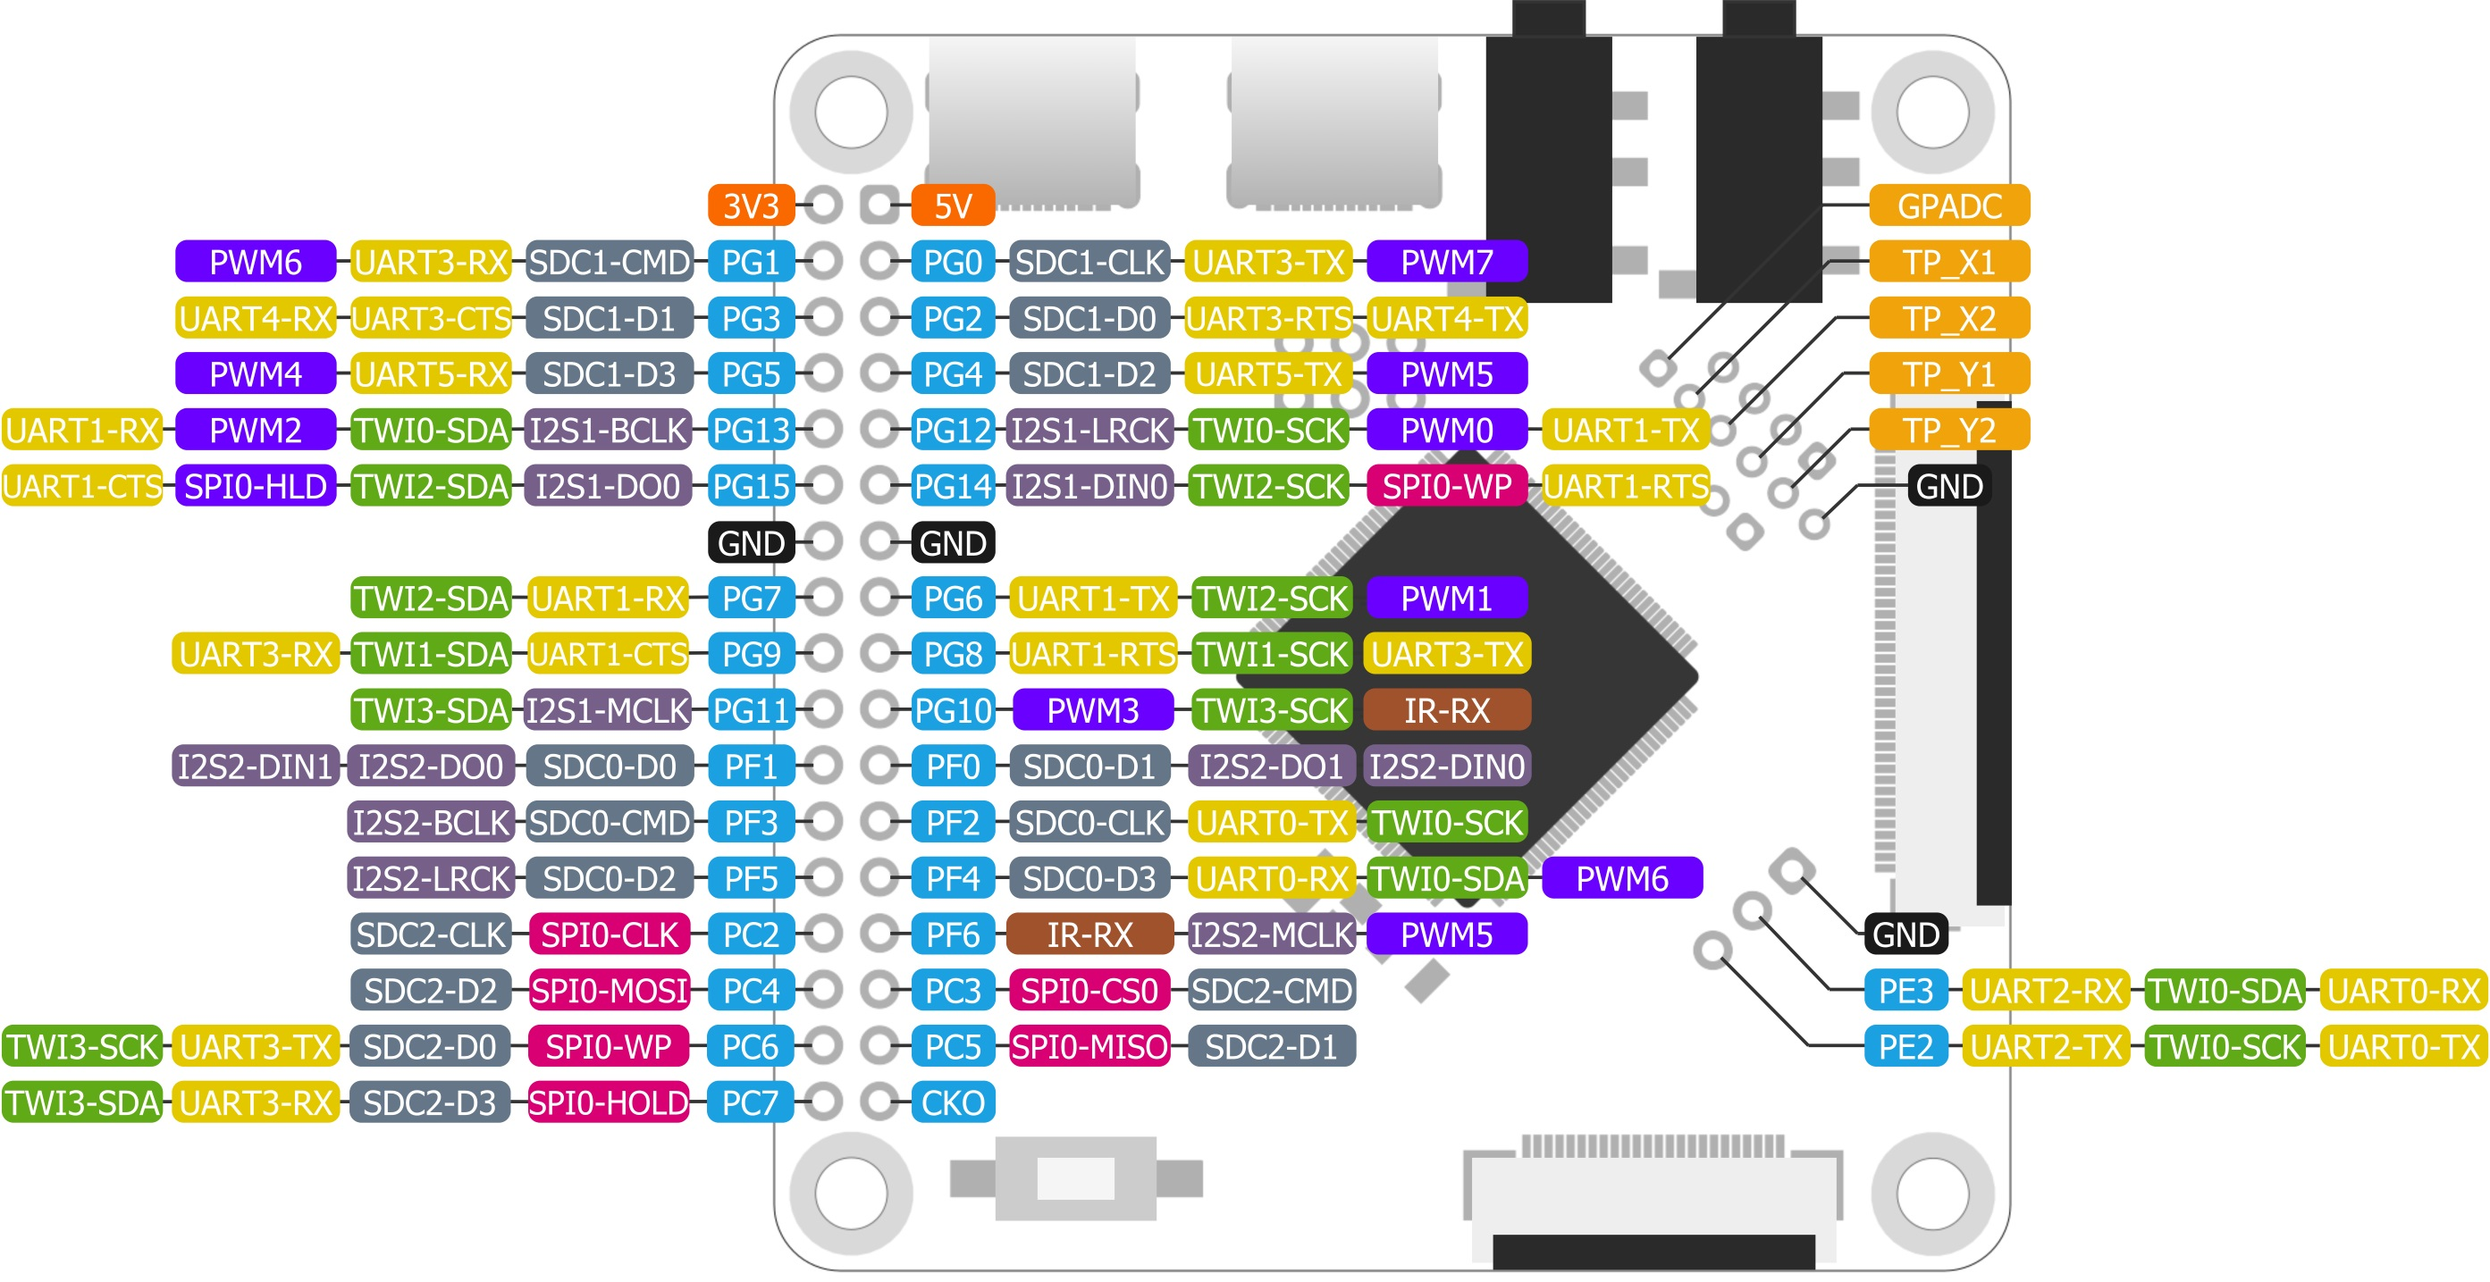
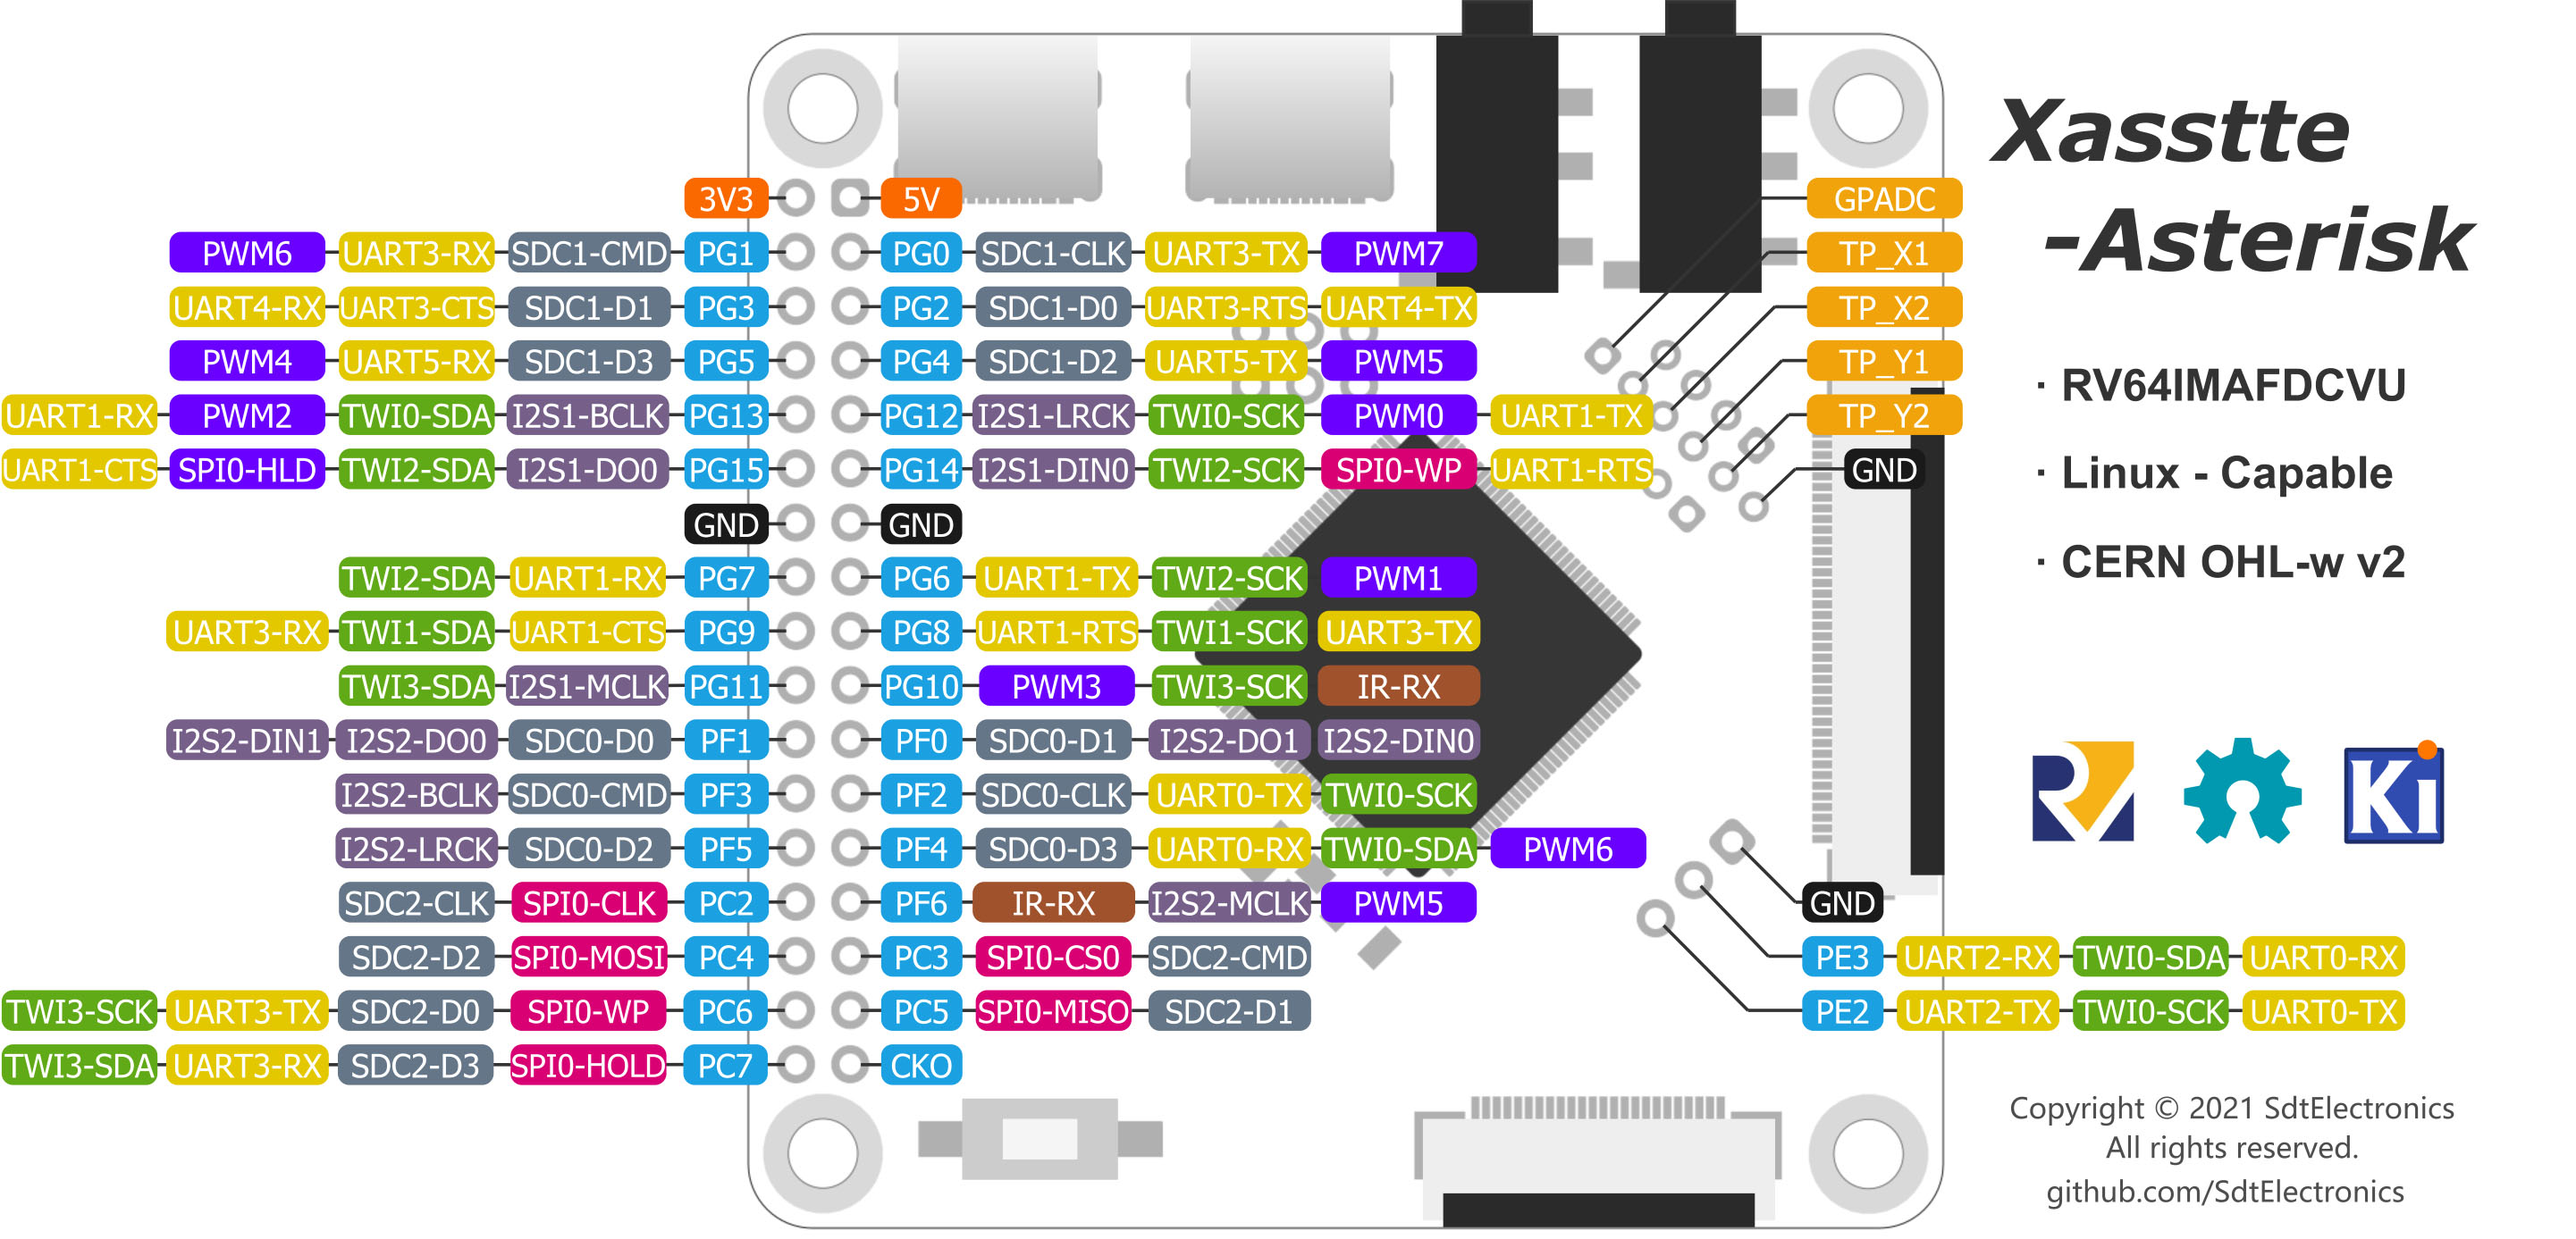
add guides

diff --git a/docs/troubleshooting.md b/docs/troubleshooting.md
@@ -1,0 +1,24 @@
+# Troubleshooting
+
+## General
+Check voltages of each group of power. The typical voltages for power nets are:
+- `3V3`: 3.3V
+- `1V8`: 1.8V
+- `VDD-CORE`: 0.9V
+- `LDOB-OUT`: 1.2-1.3V in FEL mode, 1.8V in normal operation
+
+Check whether there are bad electrical connections.
+
+Check whether separate nets are accidently connected.
+
+## Nothing Is Printed to Serial
+Check whether TX and RX signals are matched. Try interchanging them. Remove the boot media and connect the board to a computer via the otg port. If a new device is detected by the computer, it means the chip worked properly and you should check the boot media. Otherwise use an oscilloscope to check whether the crystal is oscillating. If not, check the power, and in worst cases the chip is probably dead.
+
+## System Frequently Hangs or Reboot
+Use a better power supply. Remove the load capacitors of 24M crystal (`C13`, `C14`). If the problem is eliminated it indicates the value of load capacitors was too large.
+
+## MMC Errors or Reboot after Mounting New Partion
+Check the soldering of the card slot. Use a better card as bad blocks can cause failure.
+
+## LCD Is Not Working
+If the backlight is not up, check the boost circuit. Otherwise check the level of `DISP` signal. It should be pulled high for most panels i.e. `R32` should be soldered.

diff --git a/docs/quickStart.md b/docs/quickStart.md
@@ -1,0 +1,16 @@
+# Quick Start
+## Burn Tina Firmware
+Get the firmware in [releases](https://github.com/SdtElectronics/Xassette-Asterisk/releases/tag/fw-v0.1-beta). Extract the tarball and you will get a card image. It could be burned to a SD using `dd` command:
+```bash
+dd if=fw.bin of=${card} bs=512
+```
+where ${card} is the path to the device file (under `/dev/`) to your card.
+
+## Access The Shell via ADB
+The firmware is preconfigured so that it works as an ADB USB gadget after booted up. Connect the board via the otg port and if your computer has installed ADB and corresponding drivers, the shell should be prompted after entering
+```bash
+adb shell
+```
+
+## Debugging via Serial
+The serial prints boot log and kernel messages in addition to the shell prompt. The default debug serial is `UART0` at `PE3` and `PE2`. It can be easily connected with a pinheader at the bottom right of the board.

diff --git a/README.md b/README.md
@@ -12,9 +12,15 @@ Evaluation board for AllWinner's RISC-V 64 SoC F133/D1s
 D1s/F133: RISC-V 64 single core @1.008G with in package 64MB DDR2
 
 ## Pin Out
+![resources](img/resources.jpg)
 ![pinout](img/pinc.jpg)
 
 Pins for LCD and DVP camera can also be used as IOs. See schematic below for detailed pin assignment.
+
+## Guides
+[Quick Start](docs/quickStart.md)
+
+[Troubleshooting](docs/troubleshooting.md)
 
 ## Schematic & BOM
 ![schematic](img/schematic.png)
